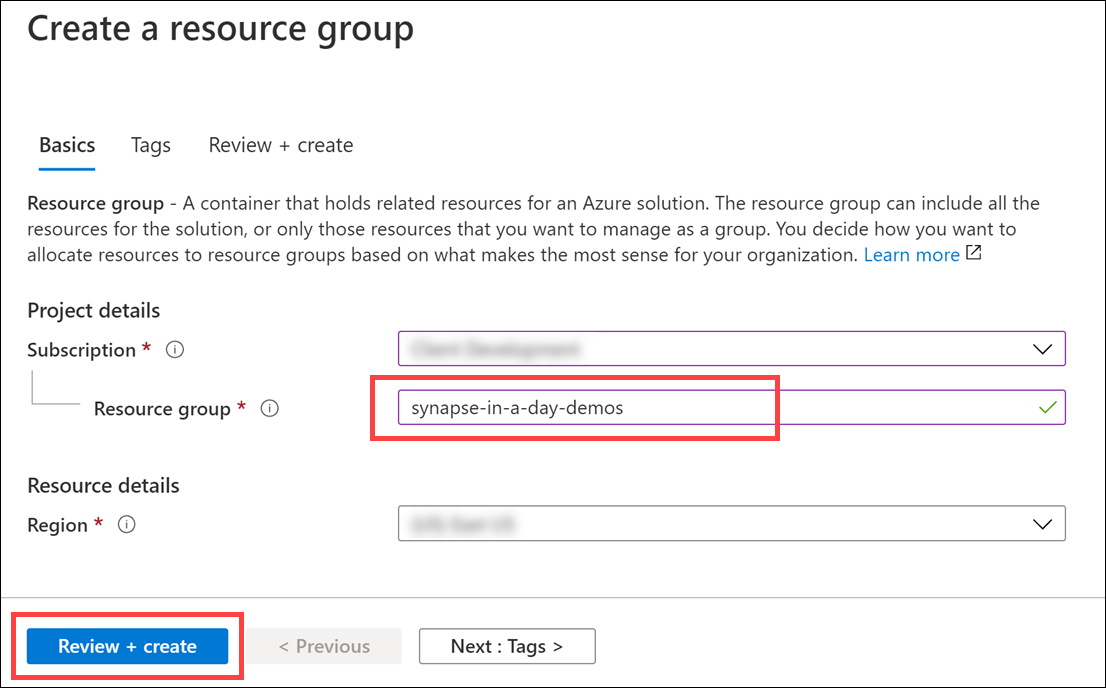
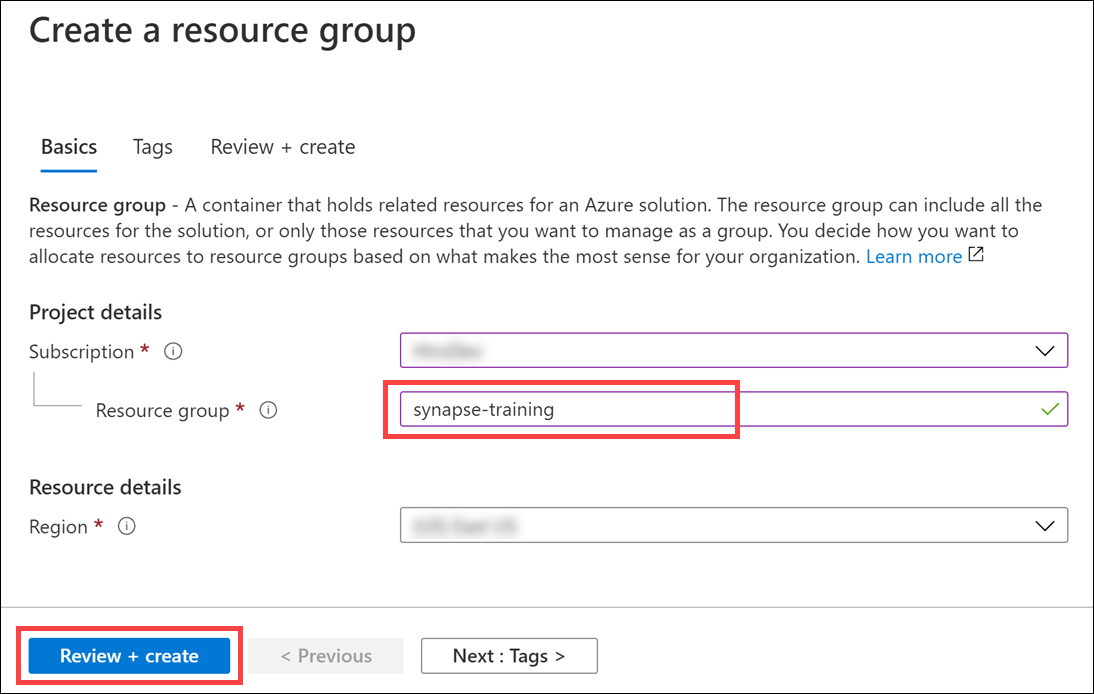
Update Power BI instructions

diff --git a/README.md b/README.md
@@ -48,17 +48,17 @@
 
 2. On the Azure Portal home screen, select the **+ Create a resource** tile.
 
-    ![A portion of the Azure Portal home screen is displayed with the + Create a resource tile highlighted.](media/bhol_createaresource.png)
+    ![A portion of the Azure Portal home screen is displayed with the + Create a resource tile highlighted.](media/bhol_createaresource.png "Create a resource")
 
 3. In the **Search the Marketplace** text box, type **Resource group** and press the **Enter** key.
 
-    ![On the new resource screen Resource group is entered as a search term.](media/bhol_searchmarketplaceresourcegroup.png)
+    ![On the new resource screen Resource group is entered as a search term.](media/bhol_searchmarketplaceresourcegroup.png "New")
 
 4. Select the **Create** button on the **Resource group** overview page.
 
-5. On the **Create a resource group** screen, select your desired Subscription and Region. For Resource group, enter **synapse-in-a-day-demos**, then select the **Review + Create** button.
+5. On the **Create a resource group** screen, select your desired Subscription and Region. For Resource group, enter **synapse-training**, then select the **Review + Create** button.
 
-    ![The Create a resource group form is displayed populated with Synapse-MCW as the resource group name.](media/bhol_resourcegroupform.png)
+    ![The Create a resource group form is displayed populated with synapse-training as the resource group name.](media/bhol_resourcegroupform.png "Create a resource group")
 
 6. Select the **Create** button once validation has passed.
 
@@ -188,21 +188,21 @@ The entire script will take between 1.5 and 2 hours to complete. Major steps inc
 
 3. Sign in into the [Power BI Portal](https://powerbi.microsoft.com/en-us/) using your Azure credentials.
 
-4. From the hamburger menu select **Workspaces** to access the list of workspaces available to you. Select your workspace.
+4. From the hamburger menu select **Workspaces** to access the list of workspaces available to you. Select your the **workspace named after your resource group** (eg. `synapse-training`).
 
-    ![The workspaces button from the hamburger menu is selected to list workspaces available.](media/powerbi_workspace_selection.png)
+    ![The workspaces button from the hamburger menu is selected to list workspaces available.](media/powerbi_workspace_selection.png "Power BI Workspaces")
 
 5. Select the **Settings** icon from the top right bar, and select **Settings** again to navigate to the settings page.
 
-    ![The settings button on the Power BI portal clicked and the Settings selection on the context menu selected.](media/powerbi_settings_menu.png)
+    ![The settings button on the Power BI portal clicked and the Settings selection on the context menu selected.](media/powerbi_settings_menu.png "Settings")
 
-6. Select **datasets** tab to access the list of datasets available. Then select `2-Billion Rows Demo` dataset to access its settings. From the settings page open **Data source credentials** and select **Edit credentials**.
+6. Select the **datasets** tab to access the list of datasets available. Then select `2-Billion Rows Demo` dataset to access its settings. From the settings page open **Data source credentials** and select **Edit credentials**.
 
-    ![The datasets tab is selected. From the list of datasets 2-Billion Rows Demo is selected. Edit credentials will be selected next. ](media/powerbi_datasource_credentials.png)
+    ![The datasets tab is selected. From the list of datasets 2-Billion Rows Demo is selected. Edit credentials will be selected next. ](media/powerbi_datasource_credentials.png "Datasets")
 
 7. Select **Microsoft Account** for the **Authentication method** and select **Sign In** to complete the process.
 
-    ![From the list of authentication methods Microsoft Account is picked. The sign in button is selected. ](media/powerbi_datasource_credentials-update.png)
+    ![From the list of authentication methods Microsoft Account is picked. The sign in button is selected. ](media/powerbi_datasource_credentials-update.png "Configure 2-Billion Rows Demo")
 
 ### Task 4: Pause SQL pool
 
